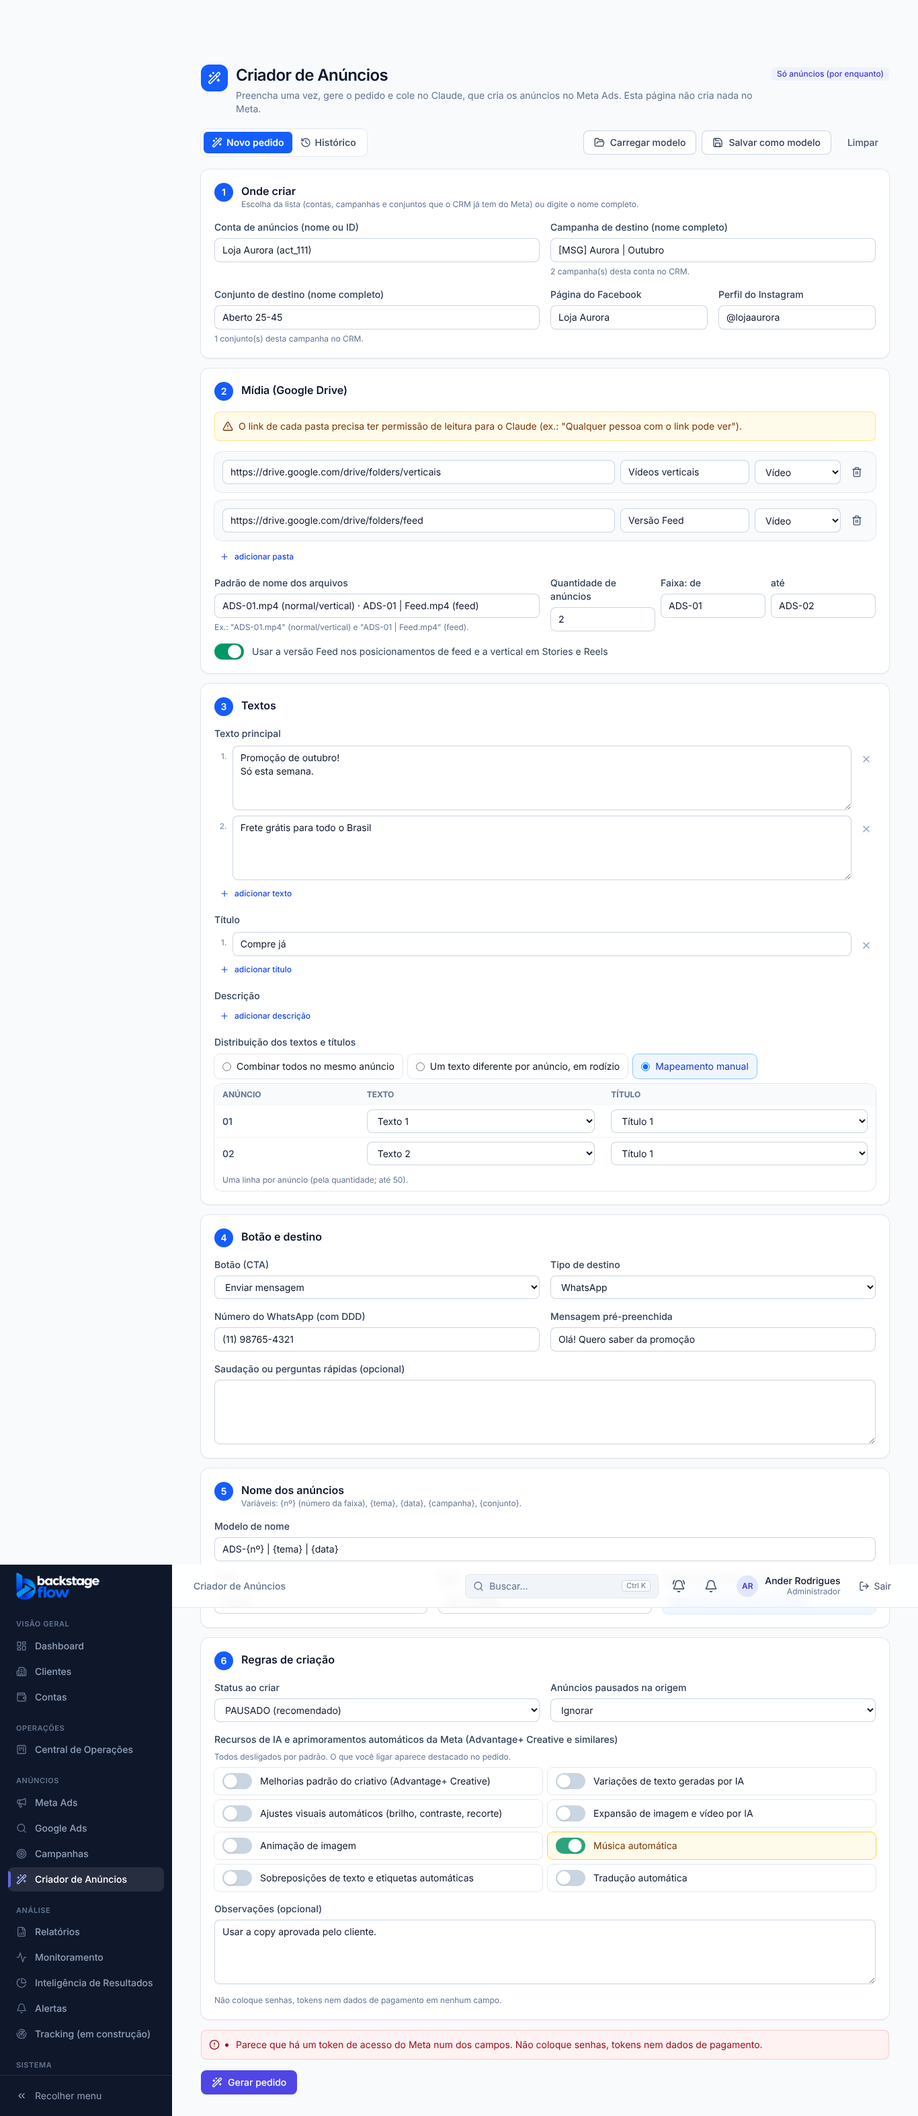
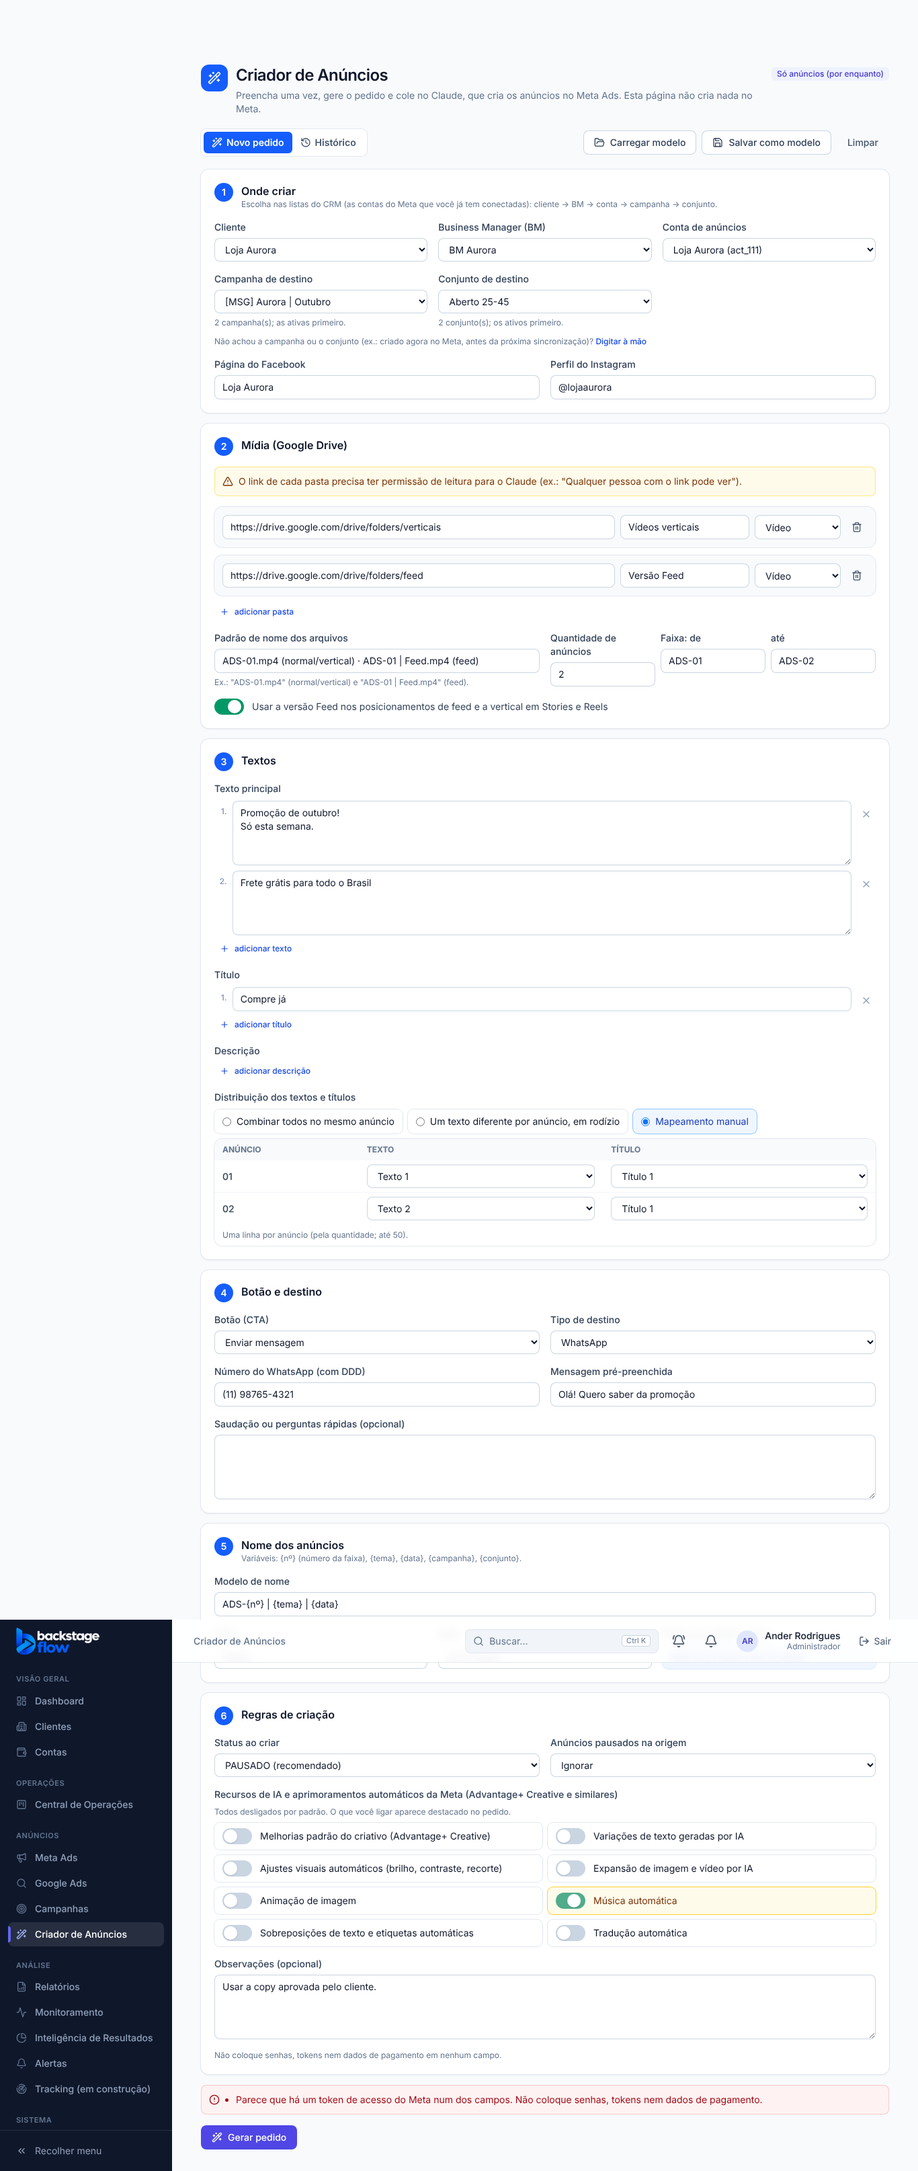
Etapa 42.1: Criador de Anúncios escolhe cliente → BM → conta → campanha → conjunto nas listas do CRM
- Listas em cascata com as contas do Meta conectadas (cliente e BM), campanhas e conjuntos sincronizados (ativos primeiro)
- Pedido leva cliente, BM e o ID do Meta da campanha e do conjunto; opção de digitar à mão
- Testes de regras e de navegador; documentação

Claude-Session: https://claude.ai/code/session_01A5ivfSd6VbkwRJFYwrhVNk

diff --git a/apps/web/src/features/ads-builder/AdsBuilderPage.tsx b/apps/web/src/features/ads-builder/AdsBuilderPage.tsx
@@ -3,7 +3,7 @@ import {
   DISTRIBUICAO_LABELS, faixaAviso, IA_RECURSOS, type IaRecurso, nomeAnuncio, resizeMapeamento, validateAdsBuilder,
 } from "@backstage/shared";
 import { AlertTriangle, Check, Copy, CopyPlus, FolderOpen, History, Plus, Save, Search, Trash2, Wand2, X } from "lucide-react";
-import { type ReactNode, useEffect, useId, useMemo, useRef, useState } from "react";
+import { type ReactNode, useEffect, useMemo, useRef, useState } from "react";
 import { Alert } from "@/components/ui/alert.tsx";
 import { Badge } from "@/components/ui/badge.tsx";
 import { Button } from "@/components/ui/button.tsx";
@@ -15,7 +15,7 @@ import { cn } from "@/lib/cn.ts";
 import { errorMessage } from "@/lib/errors.ts";
 import { formatDateTime } from "@/lib/format.ts";
 import {
-  type AdsPedido, type Opcao, useAdSetOptions, useAddAdsPedido, useAdsModelos, useAdsPedidos, useArchiveAdsModelo, useCampaignOptions, useMetaAccounts,
+  type AdsPedido, contaLabel, useAdSetOptions, useAddAdsPedido, useAdsModelos, useAdsPedidos, useArchiveAdsModelo, useCampaignOptions, useMetaAccounts,
   useSaveAdsModelo,
 } from "./api.ts";
 
@@ -43,23 +43,6 @@ function Section({ n, title, hint, children }: { n: number; title: string; hint?
       </div>
       {children}
     </Card>
-  );
-}
-
-/** Campo de texto com sugestões (lista do CRM) — dá para digitar qualquer coisa. */
-function SuggestInput({ label, value, onChange, options, placeholder, hint }: {
-  label: string; value: string; onChange: (v: string) => void; options: Opcao[]; placeholder?: string; hint?: ReactNode;
-}) {
-  const listId = useId();
-  return (
-    <Field label={label} hint={hint}>
-      {(id) => (
-        <>
-          <Input id={id} list={listId} value={value} placeholder={placeholder} maxLength={300} autoComplete="off" onChange={(e) => onChange(e.target.value)} />
-          <datalist id={listId}>{options.map((o) => <option key={o.id} value={o.label} />)}</datalist>
-        </>
-      )}
-    </Field>
   );
 }
 
@@ -105,16 +88,103 @@ function CopyButton({ text, label = "Copiar", testId }: { text: string; label?: 
   );
 }
 
+// ---------------------------------------------------------------- 42.1: onde criar (listas do CRM em cascata)
+
+const STATUS_SUFIXO: Record<string, string> = { pausada: " (pausada)", encerrada: " (encerrada)", erro: " (com erro)", desconhecida: "" };
+const vazio = { conta_ref: "", conta: "", campanha_ref: "", campanha: "", campanha_meta_id: "", conjunto_ref: "", conjunto: "", conjunto_meta_id: "" };
+
+function OndeCriar({ form, set }: { form: AdsBuilderForm; set: (patch: Partial<AdsBuilderForm>) => void }) {
+  const contas = useMetaAccounts();
+  const [manual, setManual] = useState(() => Boolean(form.conta && !form.conta_ref));
+  const all = contas.data ?? [];
+  const clientes = useMemo(() => [...new Map(all.map((a) => [a.client_id, a.client_name])).entries()].sort((x, y) => x[1].localeCompare(y[1])), [all]);
+  const clienteId = all.find((a) => a.id === form.conta_ref)?.client_id ?? clientes.find(([, n]) => n === form.cliente)?.[0] ?? "";
+  const doCliente = all.filter((a) => a.client_id === clienteId);
+  const bms = [...new Set(doCliente.map((a) => a.business_name ?? "Sem Business Manager"))].sort();
+  const bm = form.bm && bms.includes(form.bm) ? form.bm : bms.length === 1 ? bms[0] : "";
+  const contasBm = doCliente.filter((a) => (a.business_name ?? "Sem Business Manager") === bm);
+  const campanhas = useCampaignOptions(form.conta_ref || null);
+  const conjuntos = useAdSetOptions(form.campanha_ref || null);
+
+  function escolherConta(id: string) {
+    const a = all.find((x) => x.id === id);
+    set({ ...vazio, conta_ref: id, conta: a ? contaLabel(a) : "" });
+  }
+  function escolherCliente(id: string) {
+    const daqui = all.filter((a) => a.client_id === id);
+    const unicaBm = [...new Set(daqui.map((a) => a.business_name ?? "Sem Business Manager"))];
+    const unicaConta = daqui.length === 1 ? daqui[0] : null;
+    set({ ...vazio, cliente: clientes.find(([cid]) => cid === id)?.[1] ?? "", bm: unicaBm.length === 1 ? unicaBm[0] : "",
+      ...(unicaConta ? { conta_ref: unicaConta.id, conta: contaLabel(unicaConta) } : {}) });
+  }
+
+  if (manual) {
+    return (
+      <div className="space-y-3">
+        <div className="grid gap-4 md:grid-cols-3">
+          <Field label="Conta de anúncios (nome ou ID)">{(id) => <Input id={id} value={form.conta} maxLength={300} placeholder="Ex.: Loja Aurora (act_123…)" onChange={(e) => set({ conta: e.target.value, conta_ref: "" })} />}</Field>
+          <Field label="Campanha de destino (nome completo)">{(id) => <Input id={id} value={form.campanha} maxLength={300} onChange={(e) => set({ campanha: e.target.value, campanha_ref: "", campanha_meta_id: "" })} />}</Field>
+          <Field label="Conjunto de destino (nome completo)">{(id) => <Input id={id} value={form.conjunto} maxLength={300} onChange={(e) => set({ conjunto: e.target.value, conjunto_ref: "", conjunto_meta_id: "" })} />}</Field>
+        </div>
+        <Button type="button" variant="ghost" className="px-2 py-1 text-xs text-blue-700" onClick={() => { setManual(false); set({ ...vazio, cliente: "", bm: "" }); }}>Escolher nas listas do CRM</Button>
+      </div>
+    );
+  }
+
+  return (
+    <div className="space-y-3">
+      {contas.error ? <Alert tone="error">{errorMessage(contas.error)}</Alert> : null}
+      <div className="grid gap-4 md:grid-cols-2 lg:grid-cols-3">
+        <Field label="Cliente">{(id) => (
+          <Select id={id} value={clienteId} disabled={contas.isLoading} onChange={(e) => escolherCliente(e.target.value)}>
+            <option value="">{contas.isLoading ? "Carregando…" : `Escolha… (${clientes.length})`}</option>
+            {clientes.map(([cid, n]) => <option key={cid} value={cid}>{n}</option>)}
+          </Select>
+        )}</Field>
+        <Field label="Business Manager (BM)">{(id) => (
+          <Select id={id} value={bm} disabled={!clienteId} onChange={(e) => set({ ...vazio, bm: e.target.value })}>
+            <option value="">Escolha…</option>
+            {bms.map((b) => <option key={b} value={b}>{b}</option>)}
+          </Select>
+        )}</Field>
+        <Field label="Conta de anúncios">{(id) => (
+          <Select id={id} value={form.conta_ref} disabled={!bm} onChange={(e) => escolherConta(e.target.value)}>
+            <option value="">Escolha…</option>
+            {contasBm.map((a) => <option key={a.id} value={a.id}>{contaLabel(a)}</option>)}
+          </Select>
+        )}</Field>
+        <Field label="Campanha de destino" hint={form.conta_ref && campanhas.data ? `${campanhas.data.length} campanha(s); as ativas primeiro.` : undefined}>{(id) => (
+          <Select id={id} value={form.campanha_ref} disabled={!form.conta_ref || campanhas.isLoading} onChange={(e) => {
+            const c = campanhas.data?.find((x) => x.id === e.target.value);
+            set({ campanha_ref: e.target.value, campanha: c?.name ?? "", campanha_meta_id: c?.external_id ?? "", conjunto_ref: "", conjunto: "", conjunto_meta_id: "" });
+          }}>
+            <option value="">{campanhas.isLoading ? "Carregando…" : "Escolha…"}</option>
+            {(campanhas.data ?? []).map((c) => <option key={c.id} value={c.id}>{c.name}{STATUS_SUFIXO[c.status] ?? ""}</option>)}
+          </Select>
+        )}</Field>
+        <Field label="Conjunto de destino" hint={form.campanha_ref && conjuntos.data ? `${conjuntos.data.length} conjunto(s); os ativos primeiro.` : undefined}>{(id) => (
+          <Select id={id} value={form.conjunto_ref} disabled={!form.campanha_ref || conjuntos.isLoading} onChange={(e) => {
+            const g = conjuntos.data?.find((x) => x.id === e.target.value);
+            set({ conjunto_ref: e.target.value, conjunto: g?.name ?? "", conjunto_meta_id: g?.external_id ?? "" });
+          }}>
+            <option value="">{conjuntos.isLoading ? "Carregando…" : "Escolha…"}</option>
+            {(conjuntos.data ?? []).map((g) => <option key={g.id} value={g.id}>{g.name}{STATUS_SUFIXO[g.status] ?? ""}</option>)}
+          </Select>
+        )}</Field>
+      </div>
+      <p className="text-xs text-slate-500">
+        Não achou a campanha ou o conjunto (ex.: criado agora no Meta, antes da próxima sincronização)?{" "}
+        <button type="button" className="font-medium text-blue-700 hover:underline" onClick={() => setManual(true)}>Digitar à mão</button>
+      </p>
+    </div>
+  );
+}
+
 // ---------------------------------------------------------------- formulário
 
 function Formulario({ form, set, origem, onClearOrigem }: {
   form: AdsBuilderForm; set: (patch: Partial<AdsBuilderForm>) => void; origem: AdsPedido | null; onClearOrigem: () => void;
 }) {
-  const contas = useMetaAccounts();
-  const contaId = contas.data?.find((o) => o.label === form.conta.trim())?.id ?? null;
-  const campanhas = useCampaignOptions(contaId);
-  const campanhaId = campanhas.data?.find((o) => o.label === form.campanha.trim())?.id ?? null;
-  const conjuntos = useAdSetOptions(campanhaId);
   const [errors, setErrors] = useState<string[]>([]);
   const [pedido, setPedido] = useState<string | null>(null);
   const addPedido = useAddAdsPedido();
@@ -150,17 +220,11 @@ function Formulario({ form, set, origem, onClearOrigem }: {
         </Alert>
       )}
 
-      <Section n={1} title="Onde criar" hint="Escolha da lista (contas, campanhas e conjuntos que o CRM já tem do Meta) ou digite o nome completo.">
-        <div className="grid gap-4 md:grid-cols-2">
-          <SuggestInput label="Conta de anúncios (nome ou ID)" value={form.conta} onChange={(v) => set({ conta: v })} options={contas.data ?? []} placeholder="Ex.: Loja Aurora (act_123…)" />
-          <SuggestInput label="Campanha de destino (nome completo)" value={form.campanha} onChange={(v) => set({ campanha: v })} options={campanhas.data ?? []}
-            hint={contaId ? `${campanhas.data?.length ?? 0} campanha(s) desta conta no CRM.` : undefined} />
-          <SuggestInput label="Conjunto de destino (nome completo)" value={form.conjunto} onChange={(v) => set({ conjunto: v })} options={conjuntos.data ?? []}
-            hint={campanhaId ? `${conjuntos.data?.length ?? 0} conjunto(s) desta campanha no CRM.` : undefined} />
-          <div className="grid gap-4 sm:grid-cols-2">
-            <Field label="Página do Facebook">{(id) => <Input id={id} value={form.pagina} maxLength={200} onChange={(e) => set({ pagina: e.target.value })} />}</Field>
-            <Field label="Perfil do Instagram">{(id) => <Input id={id} value={form.instagram} maxLength={200} placeholder="@perfil" onChange={(e) => set({ instagram: e.target.value })} />}</Field>
-          </div>
+      <Section n={1} title="Onde criar" hint="Escolha nas listas do CRM (as contas do Meta que você já tem conectadas): cliente → BM → conta → campanha → conjunto.">
+        <OndeCriar form={form} set={set} />
+        <div className="grid gap-4 sm:grid-cols-2">
+          <Field label="Página do Facebook">{(id) => <Input id={id} value={form.pagina} maxLength={200} onChange={(e) => set({ pagina: e.target.value })} />}</Field>
+          <Field label="Perfil do Instagram">{(id) => <Input id={id} value={form.instagram} maxLength={200} placeholder="@perfil" onChange={(e) => set({ instagram: e.target.value })} />}</Field>
         </div>
       </Section>
 

diff --git a/apps/web/src/features/ads-builder/api.ts b/apps/web/src/features/ads-builder/api.ts
@@ -86,25 +86,53 @@ export function useAddAdsPedido() {
   });
 }
 
-// ---------------------------------------------------------------- sugestões do que o CRM já tem do Meta
+// ---------------------------------------------------------------- listas do que o CRM já tem do Meta (42.1)
 
 export interface Opcao {
   id: string;
   label: string;
 }
 
-/** Contas do Meta que você pode ver (o RLS limita aos clientes liberados). */
+export interface MetaConta {
+  id: string;
+  name: string;
+  external_id: string;
+  client_id: string;
+  client_name: string;
+  business_id: string | null;
+  business_name: string | null;
+}
+
+export interface MetaItem {
+  id: string;
+  name: string;
+  external_id: string;
+  status: string;
+}
+
+/** Contas do Meta que você pode ver (o RLS limita aos clientes liberados), com o cliente e a BM. */
 export function useMetaAccounts() {
   return useQuery({
     queryKey: [...KEY, "contas"],
     staleTime: 5 * 60_000,
     queryFn: async () => {
-      const { data, error } = await supabase.from("ad_accounts").select("id, name, external_id").eq("platform_id", "meta").is("unlinked_at", null).order("name").limit(500);
-      if (error) throw new FriendlyError(friendlyDbError(error, "Não conseguimos carregar as contas."));
-      return ((data ?? []) as { id: string; name: string; external_id: string }[]).map((a) => ({ id: a.id, label: `${a.name} (act_${a.external_id})` }));
+      const [a, c] = await Promise.all([
+        supabase.from("ad_accounts").select("id, name, external_id, client_id, business_id, business_name").eq("platform_id", "meta").is("unlinked_at", null).order("name").limit(1000),
+        supabase.from("clients").select("id, name").is("excluded_at", null).order("name").limit(1000),
+      ]);
+      if (a.error || c.error) throw new FriendlyError(friendlyDbError((a.error ?? c.error)!, "Não conseguimos carregar as contas."));
+      const names = new Map(((c.data ?? []) as { id: string; name: string }[]).map((x) => [x.id, x.name]));
+      return ((a.data ?? []) as Omit<MetaConta, "client_name">[])
+        .filter((x) => names.has(x.client_id))
+        .map((x) => ({ ...x, client_name: names.get(x.client_id) as string }));
     },
   });
 }
+
+/** Rótulo da conta no pedido: "Nome (act_123)". */
+export const contaLabel = (a: Pick<MetaConta, "name" | "external_id">) => `${a.name} (act_${a.external_id})`;
+
+const ativoPrimeiro = (rows: MetaItem[]) => [...rows].sort((x, y) => Number(y.status === "ativa") - Number(x.status === "ativa") || x.name.localeCompare(y.name));
 
 export function useCampaignOptions(accountId: string | null) {
   return useQuery({
@@ -112,9 +140,9 @@ export function useCampaignOptions(accountId: string | null) {
     enabled: !!accountId,
     staleTime: 5 * 60_000,
     queryFn: async () => {
-      const { data, error } = await supabase.from("campaigns").select("id, name").eq("ad_account_id", accountId!).order("name").limit(500);
+      const { data, error } = await supabase.from("campaigns").select("id, name, external_id, status").eq("ad_account_id", accountId!).order("name").limit(1000);
       if (error) throw new FriendlyError(friendlyDbError(error, "Não conseguimos carregar as campanhas."));
-      return ((data ?? []) as { id: string; name: string }[]).map((c) => ({ id: c.id, label: c.name }));
+      return ativoPrimeiro((data ?? []) as MetaItem[]);
     },
   });
 }
@@ -125,9 +153,9 @@ export function useAdSetOptions(campaignId: string | null) {
     enabled: !!campaignId,
     staleTime: 5 * 60_000,
     queryFn: async () => {
-      const { data, error } = await supabase.from("ad_groups").select("id, name").eq("campaign_id", campaignId!).order("name").limit(500);
+      const { data, error } = await supabase.from("ad_groups").select("id, name, external_id, status").eq("campaign_id", campaignId!).order("name").limit(1000);
       if (error) throw new FriendlyError(friendlyDbError(error, "Não conseguimos carregar os conjuntos."));
-      return ((data ?? []) as { id: string; name: string }[]).map((c) => ({ id: c.id, label: c.name }));
+      return ativoPrimeiro((data ?? []) as MetaItem[]);
     },
   });
 }

diff --git a/packages/shared/src/ads/builder.ts b/packages/shared/src/ads/builder.ts
@@ -50,7 +50,14 @@ export interface MapeamentoLinha {
 
 export interface AdsBuilderForm {
   tipo: AdsBuilderTipo;
-  // 1. Onde criar
+  // 1. Onde criar (42.1: escolhidos nas listas do CRM — cliente → BM → conta → campanha → conjunto)
+  cliente: string;
+  bm: string;
+  conta_ref: string;
+  campanha_ref: string;
+  conjunto_ref: string;
+  campanha_meta_id: string;
+  conjunto_meta_id: string;
   conta: string;
   campanha: string;
   conjunto: string;
@@ -95,6 +102,7 @@ export function adsBuilderDefaults(hoje = new Date()): AdsBuilderForm {
   const d = new Intl.DateTimeFormat("pt-BR", { timeZone: "America/Sao_Paulo", day: "2-digit", month: "2-digit", year: "numeric" }).format(hoje);
   return {
     tipo: "anuncios",
+    cliente: "", bm: "", conta_ref: "", campanha_ref: "", conjunto_ref: "", campanha_meta_id: "", conjunto_meta_id: "",
     conta: "", campanha: "", conjunto: "", pagina: "", instagram: "",
     pastas: [{ link: "", rotulo: "Vídeos verticais", tipo: "video" }],
     padrao_nome_arquivo: ADS_BUILDER_PADRAO_ARQUIVO,
@@ -243,7 +251,8 @@ export function buildAdsPedido(f: AdsBuilderForm): string {
   const lines: (string | null)[] = [
     "Crie anúncios no Meta Ads com os dados abaixo.",
     "",
-    `Conta: ${f.conta.trim()} | Campanha: ${f.campanha.trim()} | Conjunto: ${f.conjunto.trim()}`,
+    f.cliente.trim() || f.bm.trim() ? `Cliente: ${f.cliente.trim() || "—"} | BM: ${f.bm.trim() || "—"}` : null,
+    `Conta: ${f.conta.trim()} | Campanha: ${f.campanha.trim()}${f.campanha_meta_id ? ` (ID ${f.campanha_meta_id})` : ""} | Conjunto: ${f.conjunto.trim()}${f.conjunto_meta_id ? ` (ID ${f.conjunto_meta_id})` : ""}`,
     `Página / Instagram: ${f.pagina.trim() || "—"} / ${f.instagram.trim() || "—"}`,
     "",
     "Mídia (Google Drive):",

diff --git a/packages/shared/src/ads/builder.test.ts b/packages/shared/src/ads/builder.test.ts
@@ -65,6 +65,12 @@ describe("pedido gerado", () => {
     expect(t).toContain("Crie PRIMEIRO apenas um anúncio");
     expect(t).not.toContain("ATENÇÃO");
   });
+  it("cliente, BM e IDs do Meta quando escolhidos nas listas (42.1)", () => {
+    const t = buildAdsPedido(fill({ cliente: "Loja Aurora", bm: "BM Aurora", campanha_meta_id: "120001", conjunto_meta_id: "120009" }));
+    expect(t).toContain("Cliente: Loja Aurora | BM: BM Aurora");
+    expect(t).toContain("Campanha: [MSG] Aurora | Out (ID 120001) | Conjunto: Aberto 25-45 (ID 120009)");
+    expect(buildAdsPedido(fill())).not.toContain("Cliente:");
+  });
   it("IA ligada e status ATIVO aparecem destacados", () => {
     const t = buildAdsPedido(fill({ ia_ligados: ["musica"], status: "ATIVO" }));
     expect(t).toContain("⚠ ATENÇÃO — recursos de IA LIGADOS a pedido: Música automática.");

diff --git a/docs/etapa-42-criador-de-anuncios/42-CRIADOR-DE-ANUNCIOS.md b/docs/etapa-42-criador-de-anuncios/42-CRIADOR-DE-ANUNCIOS.md
@@ -118,3 +118,21 @@ revoke select on table public.ads_builder_modelos, public.ads_builder_pedidos fr
 ```
 
 Depois, tirar o item do menu.
+
+## 42.1 — Escolher cliente, BM, conta, campanha e conjunto nas listas (28/10)
+**Pedido do Ander:** aproveitar as contas que o CRM já tem conectadas. Ele escolhe o cliente, a BM, a conta e o conjunto; depois preenche os anúncios.
+
+- **"Onde criar" virou uma escolha em cascata:** Cliente → Business Manager (BM) → Conta de anúncios → Campanha → Conjunto.
+  - As listas vêm do CRM: são as 31 contas do Meta conectadas, todas com a BM registrada, e as campanhas e conjuntos sincronizados.
+  - Cliente com uma só BM e uma só conta já vem com tudo escolhido.
+  - Trocar o cliente, a BM ou a conta limpa o que vem depois.
+  - Campanhas e conjuntos ativos aparecem primeiro; os pausados ou encerrados vêm marcados.
+- **O pedido leva também** "Cliente: … | BM: …" e o **ID do Meta** da campanha e do conjunto, assim o Claude acha exatamente onde criar.
+- **"Digitar à mão":** para campanha ou conjunto criados agora no Meta, antes da próxima sincronização. Mantém o que já estava escolhido.
+- **Duplicar do histórico** volta com as listas preenchidas: troque só o conjunto ou a campanha.
+- **Sem mudança no banco.** Os campos novos (cliente, BM e IDs) ficam dentro dos dados do pedido e do modelo.
+- **Testes:**
+  - regras: +1 (cliente, BM e IDs no pedido), 12 no total;
+  - navegador: BMs do cliente, conta só depois da BM, campanhas com as ativas primeiro, limpar ao trocar o cliente, ID no pedido, duplicar trocando o conjunto pela lista, digitar à mão.
+
+![Onde criar](criador-anuncios-onde-criar.png)

diff --git a/README.md b/README.md
@@ -108,7 +108,7 @@ O projeto é construído em etapas. A documentação de cada etapa fica em [`doc
   - [41.3 — grupo e @ padrão de cada cliente, com ligar/desligar por pessoa](docs/etapa-41-envios-semanais/41.3-GRUPOS-E-ARROBAS.md) ✅ 27/10
   - [41.4 — no envio, só ligar/desligar clientes (Selecionar todos / Tirar todos), sempre com a última configuração](docs/etapa-41-envios-semanais/41.4-LISTA-DE-CLIENTES-NO-ENVIO.md) ✅ 27/10
   - [41.5 — código de cada envio (ENV-001) na instrução da tarefa; MCP 1.5.0](docs/etapa-41-envios-semanais/41.5-CODIGO-DO-ENVIO.md) ✅ 28/10
-- [Etapa 42 — Criador de Anúncios (monta o pedido em texto para o Claude criar anúncios no Meta; modelos e histórico)](docs/etapa-42-criador-de-anuncios/42-CRIADOR-DE-ANUNCIOS.md) ✅ 28/10
+- [Etapa 42 — Criador de Anúncios (monta o pedido em texto para o Claude criar anúncios no Meta; modelos e histórico; 42.1: cliente → BM → conta → campanha → conjunto nas listas do CRM)](docs/etapa-42-criador-de-anuncios/42-CRIADOR-DE-ANUNCIOS.md) ✅ 28/10
 - [Política de Privacidade e Termos de Serviço (páginas públicas)](docs/POLITICA-E-TERMOS.md) ✅ 22/10
 - [Desativar cliente (para sincronização, alertas, planilha, e-mail, acesso e tracking)](docs/CLIENTE-DESATIVADO.md) ✅ 23/10
 - [Contas ativas × clientes desativados e Excluir cliente](docs/CLIENTE-DESATIVADO.md#contas-ativas--desativadas-e-excluir-cliente-23102026-à-tarde) ✅ 23/10
